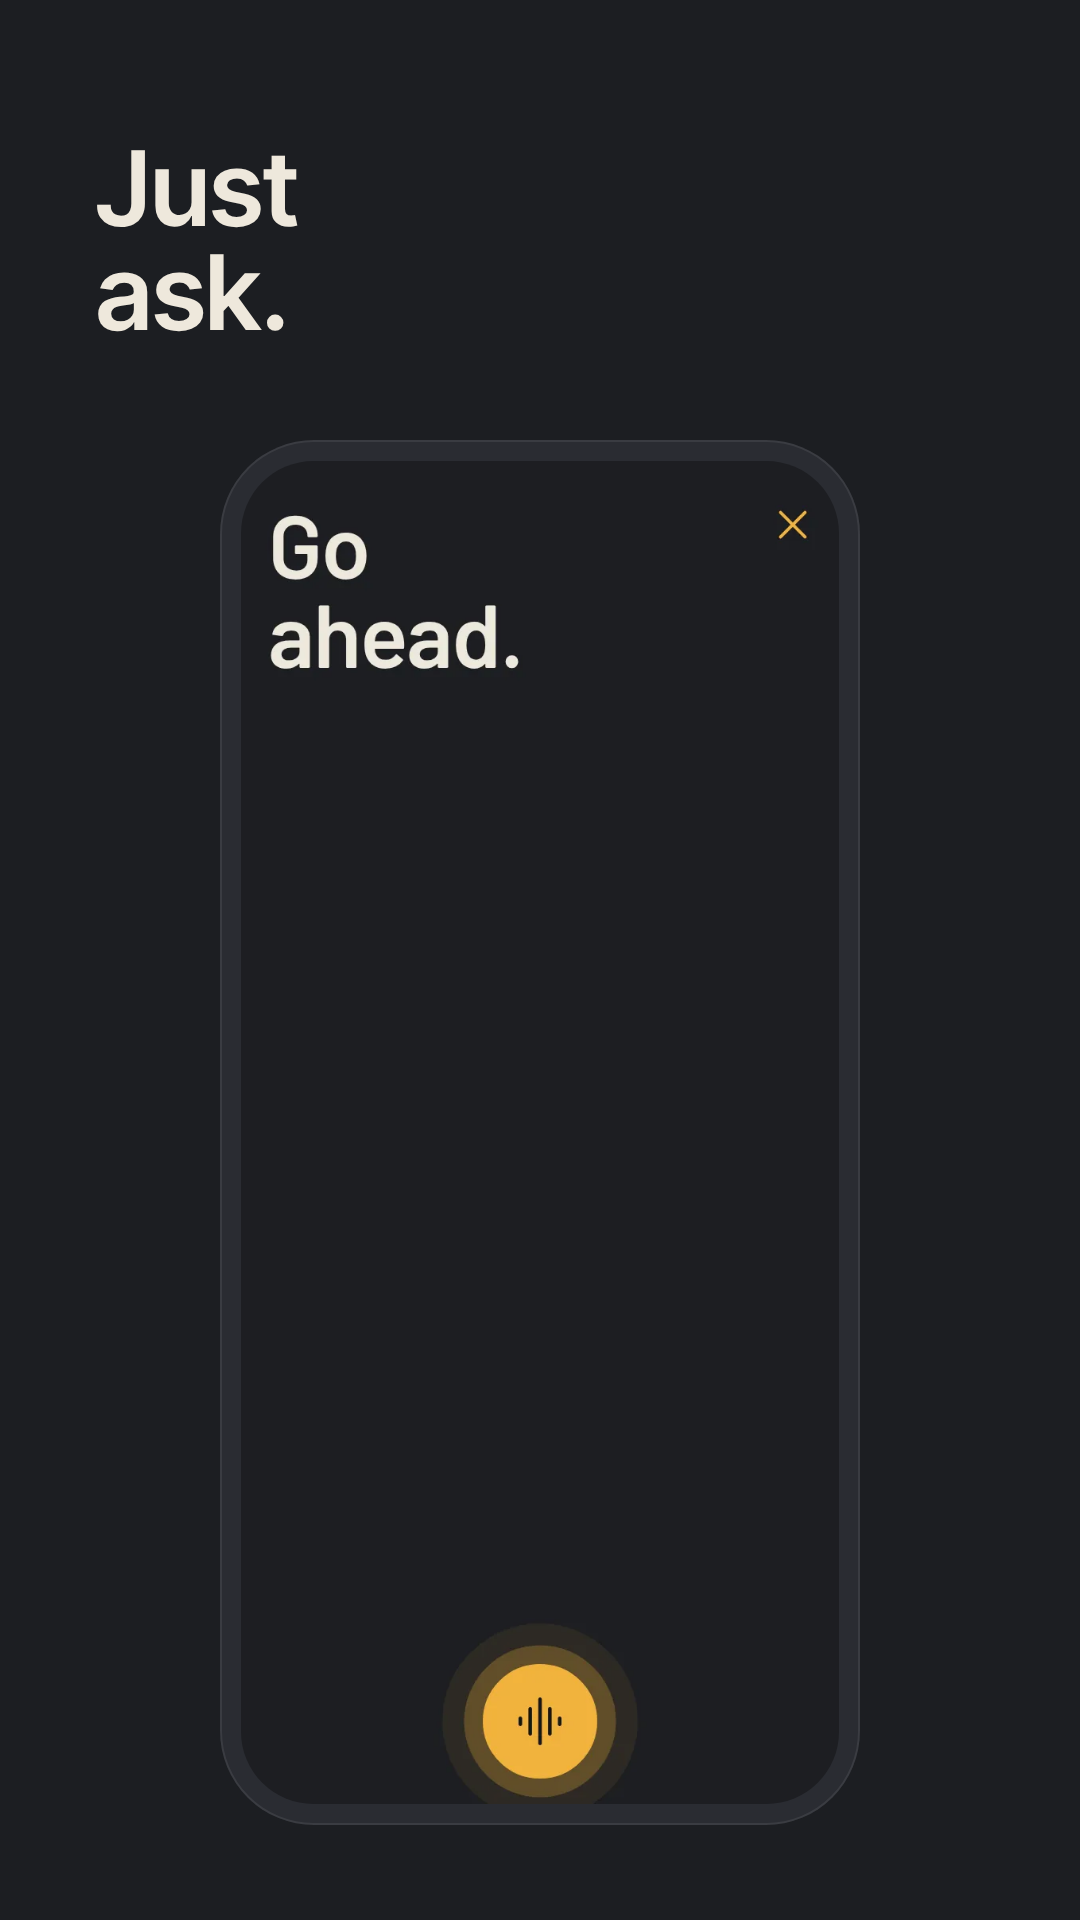
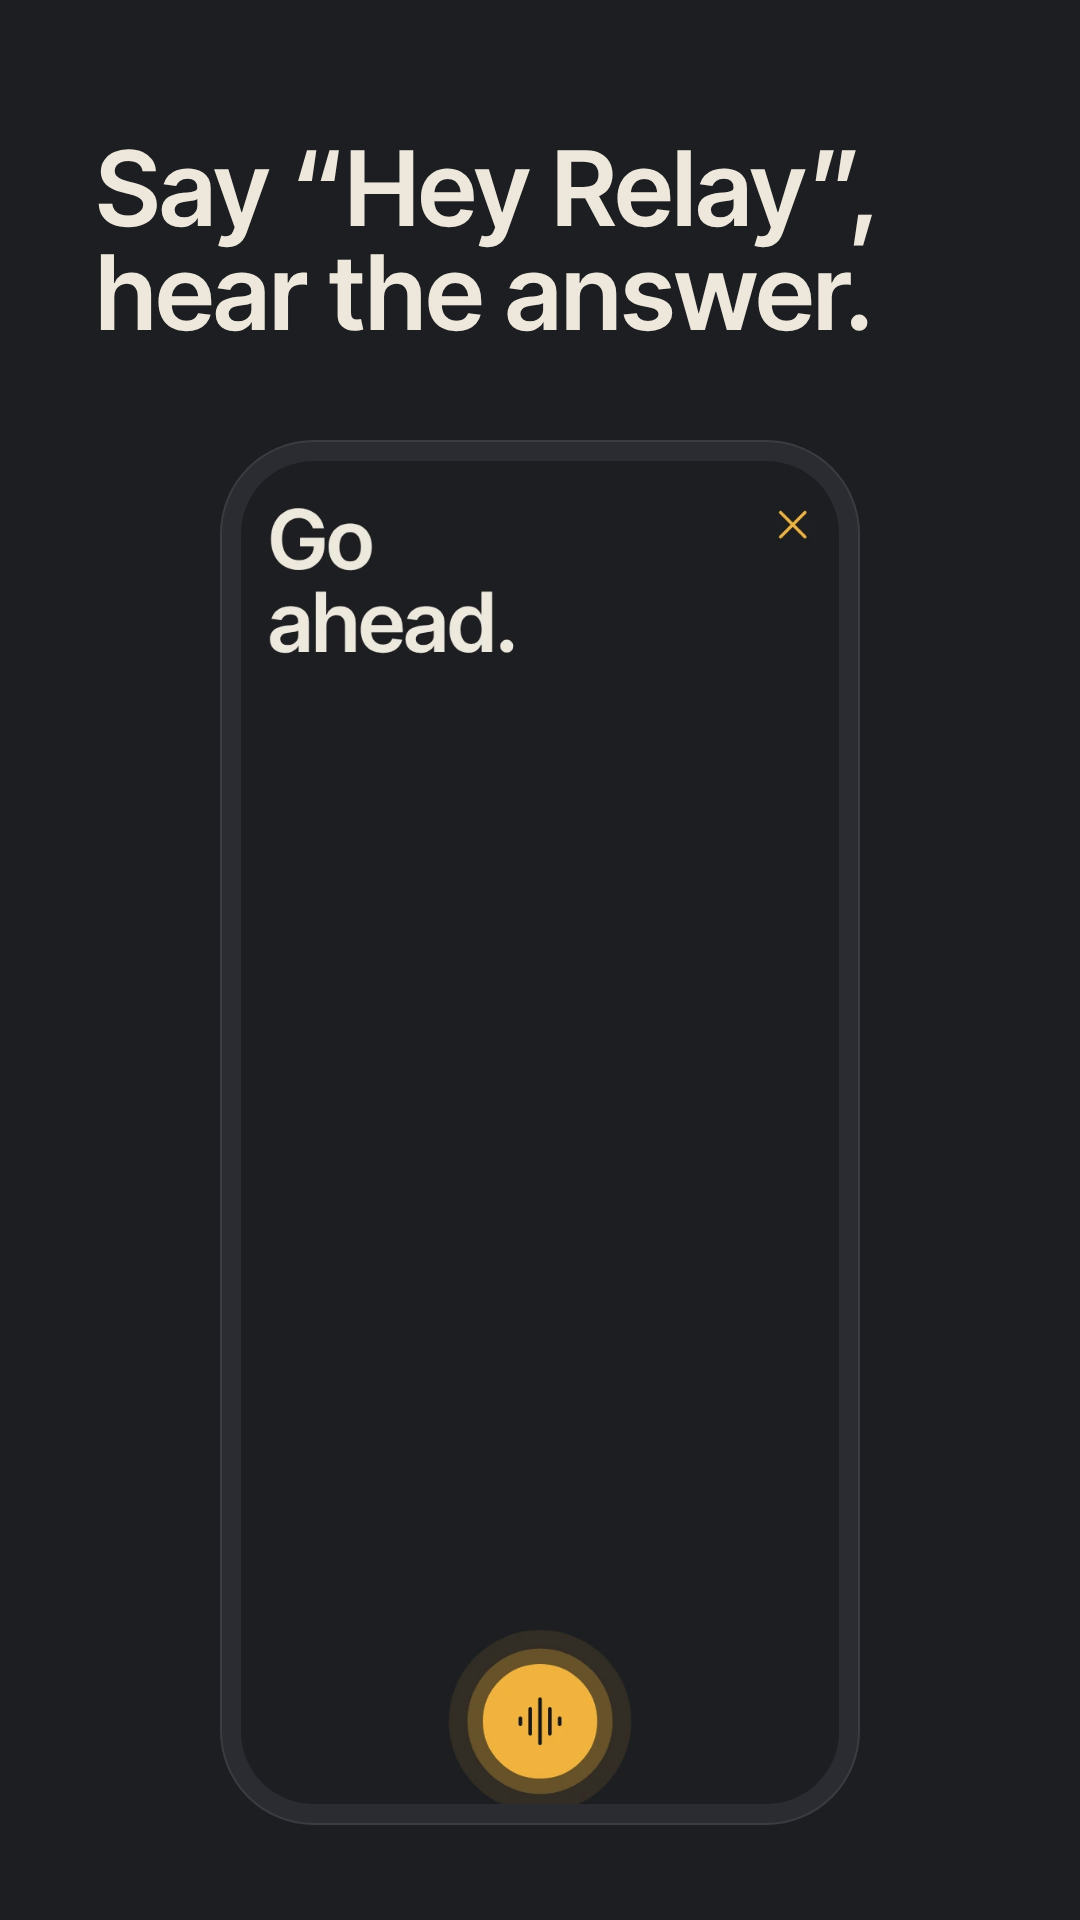
Play art and site screens in the app's current font (Inter Tight); Say Hey Relay, hear the answer replaces Just ask on the Play screenshot
Claude-Session: https://claude.ai/code/session_01P1qx1SHyXgDY1AuiAuT1Fr

diff --git a/android-release/play-listing/source/recapture.js b/android-release/play-listing/source/recapture.js
@@ -1,0 +1,49 @@
+// Re-captures the four listing screens from the current app (www/index.html), so their text is in the app's current font.
+// The workspace can't load MetaForge's map tiles, so each map area is taken from the earlier capture of the same screen
+// (pixel-4nov/screen-*.webp, 780 x 1688, taken on the Pixel): the answer text, buttons, credit and dock come from the live app.
+// Run from this folder:  cp pixel-4nov/screen-*.webp . && node recapture.js && python3 composite.py && node render.js && python3 finish.py
+// Then copy the four screen-*.webp to site/beta/screens/ so the site matches.
+const path = require('path');
+const { chromium } = require('playwright');
+const APP = 'file://' + path.resolve(__dirname, '../../../www/index.html');
+const SHOTS = [
+  { out: 'new-3-exit', place: 'Village', ask: "where's the nearest exit", word: 'Forest Airshaft, south-east.' },
+  { out: 'new-4-find', place: 'Village', ask: "where's the nearest rocketeer", word: 'Nearest Rocketeer: west.' },
+  { out: 'new-5-pin', pin: true },
+  { out: 'new-2-listening', listen: true },
+];
+(async () => {
+  const b = await chromium.launch();
+  const ctx = await b.newContext({ viewport: { width: 390, height: 844 }, deviceScaleFactor: 2, timezoneId: 'Europe/London' });
+  const rects = {};
+  for (const s of SHOTS) {
+    const p = await ctx.newPage();
+    await p.route(/^https?:/, r => r.abort());
+    await p.goto(APP); await p.waitForTimeout(1500);
+    await p.evaluate(() => { const el = document.getElementById('sppack'); if (el) el.hidden = true; });
+    await p.evaluate(async (s) => {
+      speak = (t, cb) => { if (cb) setTimeout(cb, 0); };  // no audio, no follow-up listen
+      listen = () => {};
+      S = Object.assign({}, EMPTY); S.voiceV = 2;
+      if (s.place) { const pl = PLACES.find(p => p.n === s.place); S.place = { n: pl.n, y: pl.y, x: pl.x }; S.placeAt = Date.now(); S.raidAt = Date.now(); }
+      if (s.ask) await handle(s.ask);
+      if (s.pin) await handle('where am i');
+      if (s.listen) { micOn(true); renderListening(); }
+    }, s);
+    await p.waitForTimeout(900);
+    await p.evaluate((s) => {
+      document.body.classList.remove('speaking');
+      if (s.word) document.getElementById('word').textContent = s.word;
+      if (s.pin) { const k = document.getElementById('pinok'); if (k) k.hidden = false; const h = document.getElementById('maphint'); if (h) h.hidden = true; }  // the confirm pill, as after a tap  // the same answer as the earlier capture, so the map matches
+      const el = document.getElementById('sppack'); if (el) el.hidden = true;
+    }, s);
+    await p.waitForTimeout(300);
+    rects[s.out] = await p.evaluate(() => { const m = document.querySelector('.mapwrap'); if (!m) return null; const r = m.getBoundingClientRect(); return { x: r.x, y: r.y, w: r.width, h: r.height }; });
+    rects[s.out + '-credit'] = await p.evaluate(() => { const m = document.querySelector('.leaflet-control-attribution'); if (!m) return null; const r = m.getBoundingClientRect(); return { x: r.x, y: r.y, w: r.width, h: r.height }; });
+    await p.screenshot({ path: s.out + '.png' });
+    console.log(s.out, await p.evaluate(() => document.getElementById('word').textContent), JSON.stringify(rects[s.out]));
+    await p.close();
+  }
+  require('fs').writeFileSync('rects.json', JSON.stringify(rects));
+  await b.close();
+})();

diff --git a/android-release/play-listing/source/shot.html b/android-release/play-listing/source/shot.html
@@ -25,8 +25,8 @@ html,body{margin:0;background:#1C1E22;color:#EEE8DC;font-family:IT}
 </style>
 <div class="s" id="s1"><h1>Need a
 quick evac?</h1><div class="ph"><img src="screen-3-exit.webp" alt=""></div></div>
-<div class="s" id="s2"><h1>Just
-ask.</h1><div class="ph"><img src="screen-2-listening.webp" alt=""></div></div>
+<div class="s" id="s2"><h1>Say “Hey Relay”,
+hear the answer.</h1><div class="ph"><img src="screen-2-listening.webp" alt=""></div></div>
 <div class="s" id="s3"><h1>Find what
 you need.</h1><div class="ph"><img src="screen-4-find.webp" alt=""></div></div>
 <div class="s" id="s4"><h1>Show it where

diff --git a/android-release/play-listing/source/composite.py b/android-release/play-listing/source/composite.py
@@ -1,0 +1,31 @@
+"""Puts the earlier captures' map areas into the fresh captures (see recapture.js), then saves screen-*.webp for shot.html."""
+import json
+from PIL import Image
+rects = json.load(open("rects.json"))
+for k in ["3-exit", "4-find", "5-pin", "2-listening"]:
+    new = Image.open("new-%s.png" % k).convert("RGB")
+    r = rects.get("new-" + k)
+    if r:
+        old = Image.open("screen-%s.webp" % k).convert("RGB").resize(new.size)
+        box = tuple(int(round(v * 2)) for v in (r["x"], r["y"], r["x"] + r["w"], r["y"] + r["h"]))
+        new.paste(old.crop(box), box[:2])
+    new.save("screen-%s.webp" % k, quality=92)
+    print(k, new.size)
+
+# the pin screen's "I'm here" pill sits on the map: take it from the fresh capture so it is in the current font
+pin = Image.open("new-5-pin.png").convert("RGB"); comp = Image.open("screen-5-pin.webp").convert("RGB")
+r = rects["new-5-pin"]; x0, y0, x1, y1 = [int(v * 2) for v in (r["x"], r["y"], r["x"] + r["w"], r["y"] + r["h"])]
+px = pin.load(); amber = lambda c: c[0] > 220 and 150 < c[1] < 205 and c[2] < 100
+rows = [y for y in range(y1 - int((y1 - y0) * .25), y1) if sum(amber(px[x, y]) for x in range(x0, x1)) > 120]  # the pill is the only wide amber run
+pts = [(x, y) for y in rows for x in range(x0, x1) if amber(px[x, y])]
+if pts:
+    box = (min(p[0] for p in pts) - 3, min(p[1] for p in pts) - 3, max(p[0] for p in pts) + 4, max(p[1] for p in pts) + 4)
+    comp.paste(pin.crop(box), box[:2]); comp.save("screen-5-pin.webp", quality=92); print("pill", box)
+
+# "Maps by MetaForge" sits on the map too: take it from the fresh captures (its backing is near-opaque charcoal)
+for k in ["3-exit", "4-find", "5-pin"]:
+    c = rects.get("new-%s-credit" % k)
+    if not c: continue
+    fresh = Image.open("new-%s.png" % k).convert("RGB"); comp = Image.open("screen-%s.webp" % k).convert("RGB")
+    box = tuple(int(round(v * 2)) for v in (c["x"], c["y"], c["x"] + c["w"], c["y"] + c["h"]))
+    comp.paste(fresh.crop(box), box[:2]); comp.save("screen-%s.webp" % k, quality=92); print("credit", k, box)

diff --git a/android-release/README.md b/android-release/README.md
@@ -11,7 +11,7 @@ Everything for the Google Play listing lives here. Off the site (the site is `si
   - `arcrelay-play-listing-text.txt`: short description (79/80) and full description, above and below the `---`.
   - `arcrelay-play-alt-text.txt`: alt text for each image.
   - `source/`: `shot.html` lays the art out, `render.js` renders it, `finish.py` flattens it to the final names. The screens are copies of the site's captures (`site/beta/screens/`).
-  - **Before upload:** the screens were captured on 4 Nov, before the app moved to Inter Tight, so the app text in them is still Barlow. Re-capture on the Pixel (`capture.js`), copy them over the four `screen-*.webp` in `source/`, then `node render.js && python3 finish.py`.
+  - **Fonts:** the screens are re-captured from the current app (Inter Tight) by `recapture.js`; only the map areas come from the 4 Nov Pixel captures in `source/pixel-4nov/`, because the workspace cannot load MetaForge tiles. The same four screens are used on the site (`site/beta/screens/`).
 
 ## Listing details
 
@@ -21,4 +21,4 @@ Everything for the Google Play listing lives here. Off the site (the site is `si
 ## To do
 
 - A screenshot with the map (exits marked, you-dot and route). Best taken on the Pixel, then framed with `shot.html`. The build sandbox can't reach MetaForge's map tiles.
-- Re-capture the four screens in Inter Tight (above). More screenshots as maps and features land.
+- More screenshots as maps and features land. When the app UI changes, re-run `recapture.js` (steps at its top).
